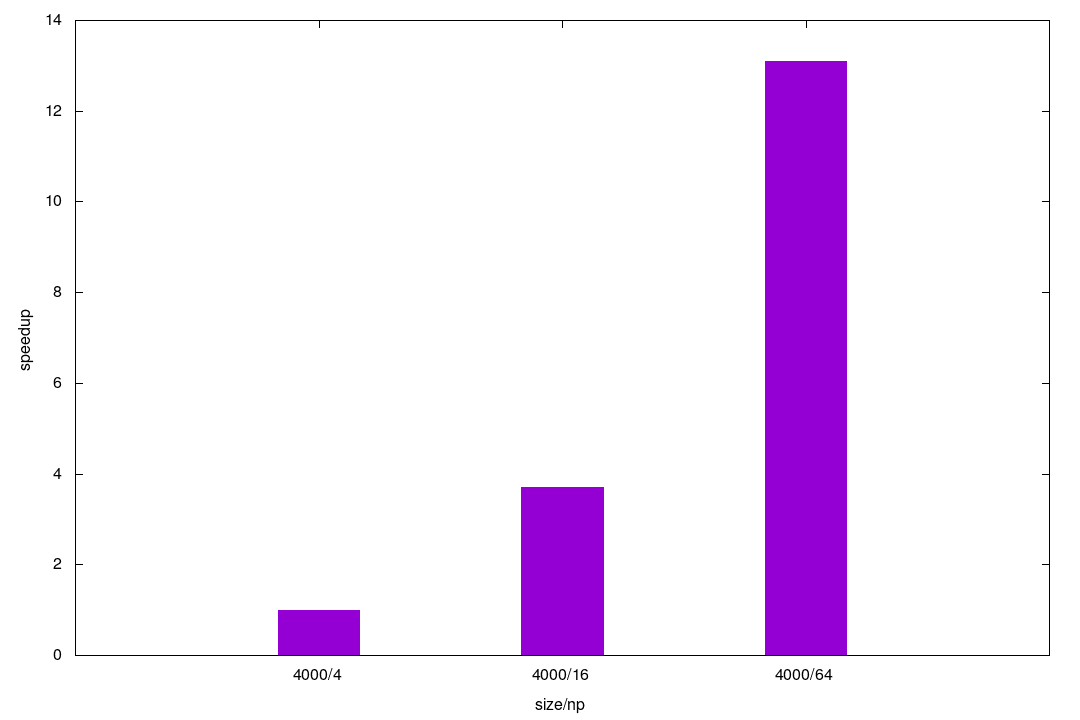
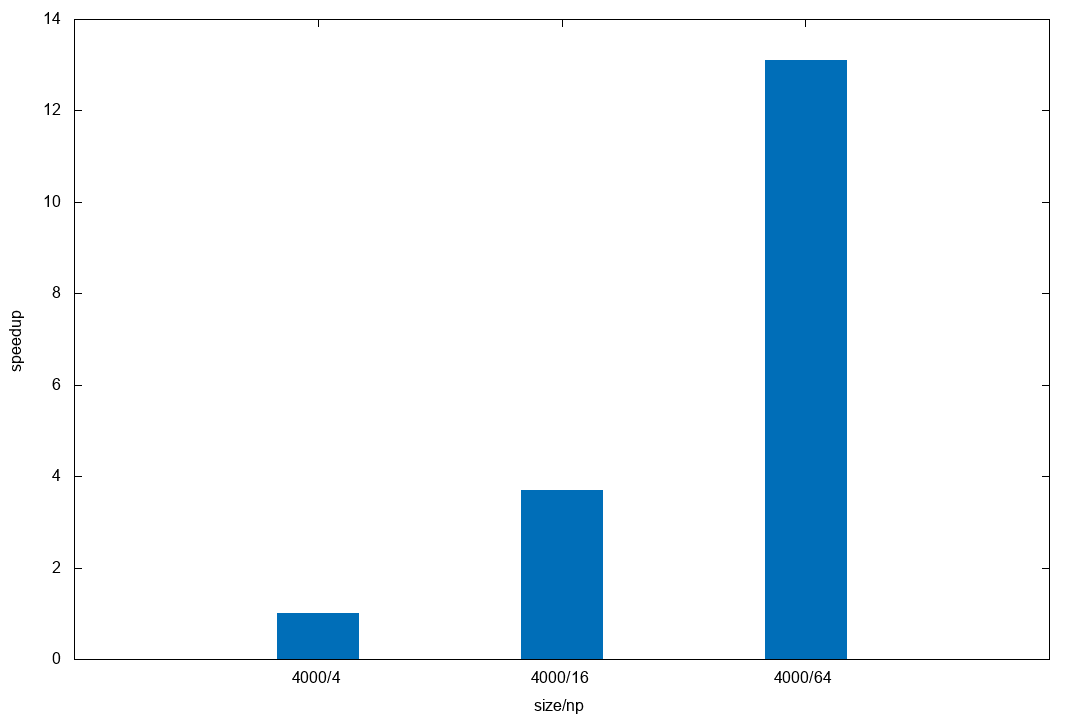
update plot style

diff --git a/README.md b/README.md
@@ -1,12 +1,11 @@
 # Heat equation
-Heat equation solver in MPI+OpenMP
+Heat equation solver with MPI+OpenMP
 
 ### Requirements
 Setup environment modules.
 ```bash
 source env.sh
 ```
-
 ### Usage
 #### Compile
 Compile project with `make`.
@@ -15,6 +14,9 @@ Compile project with `make`.
 Run test suite with `make test`
 
 ## Results
+![Speedup](results/plot/speedups_baseline_openmp_mpi.png)
+Speedups obtained 16 threads for openmp, 16 processus for mpi.
+
 **Processors:** Intel(R) Xeon(R) CPU E5-2670 v2 @ 2.50GHz
 
 **Compiler:** gcc 9.1.0
